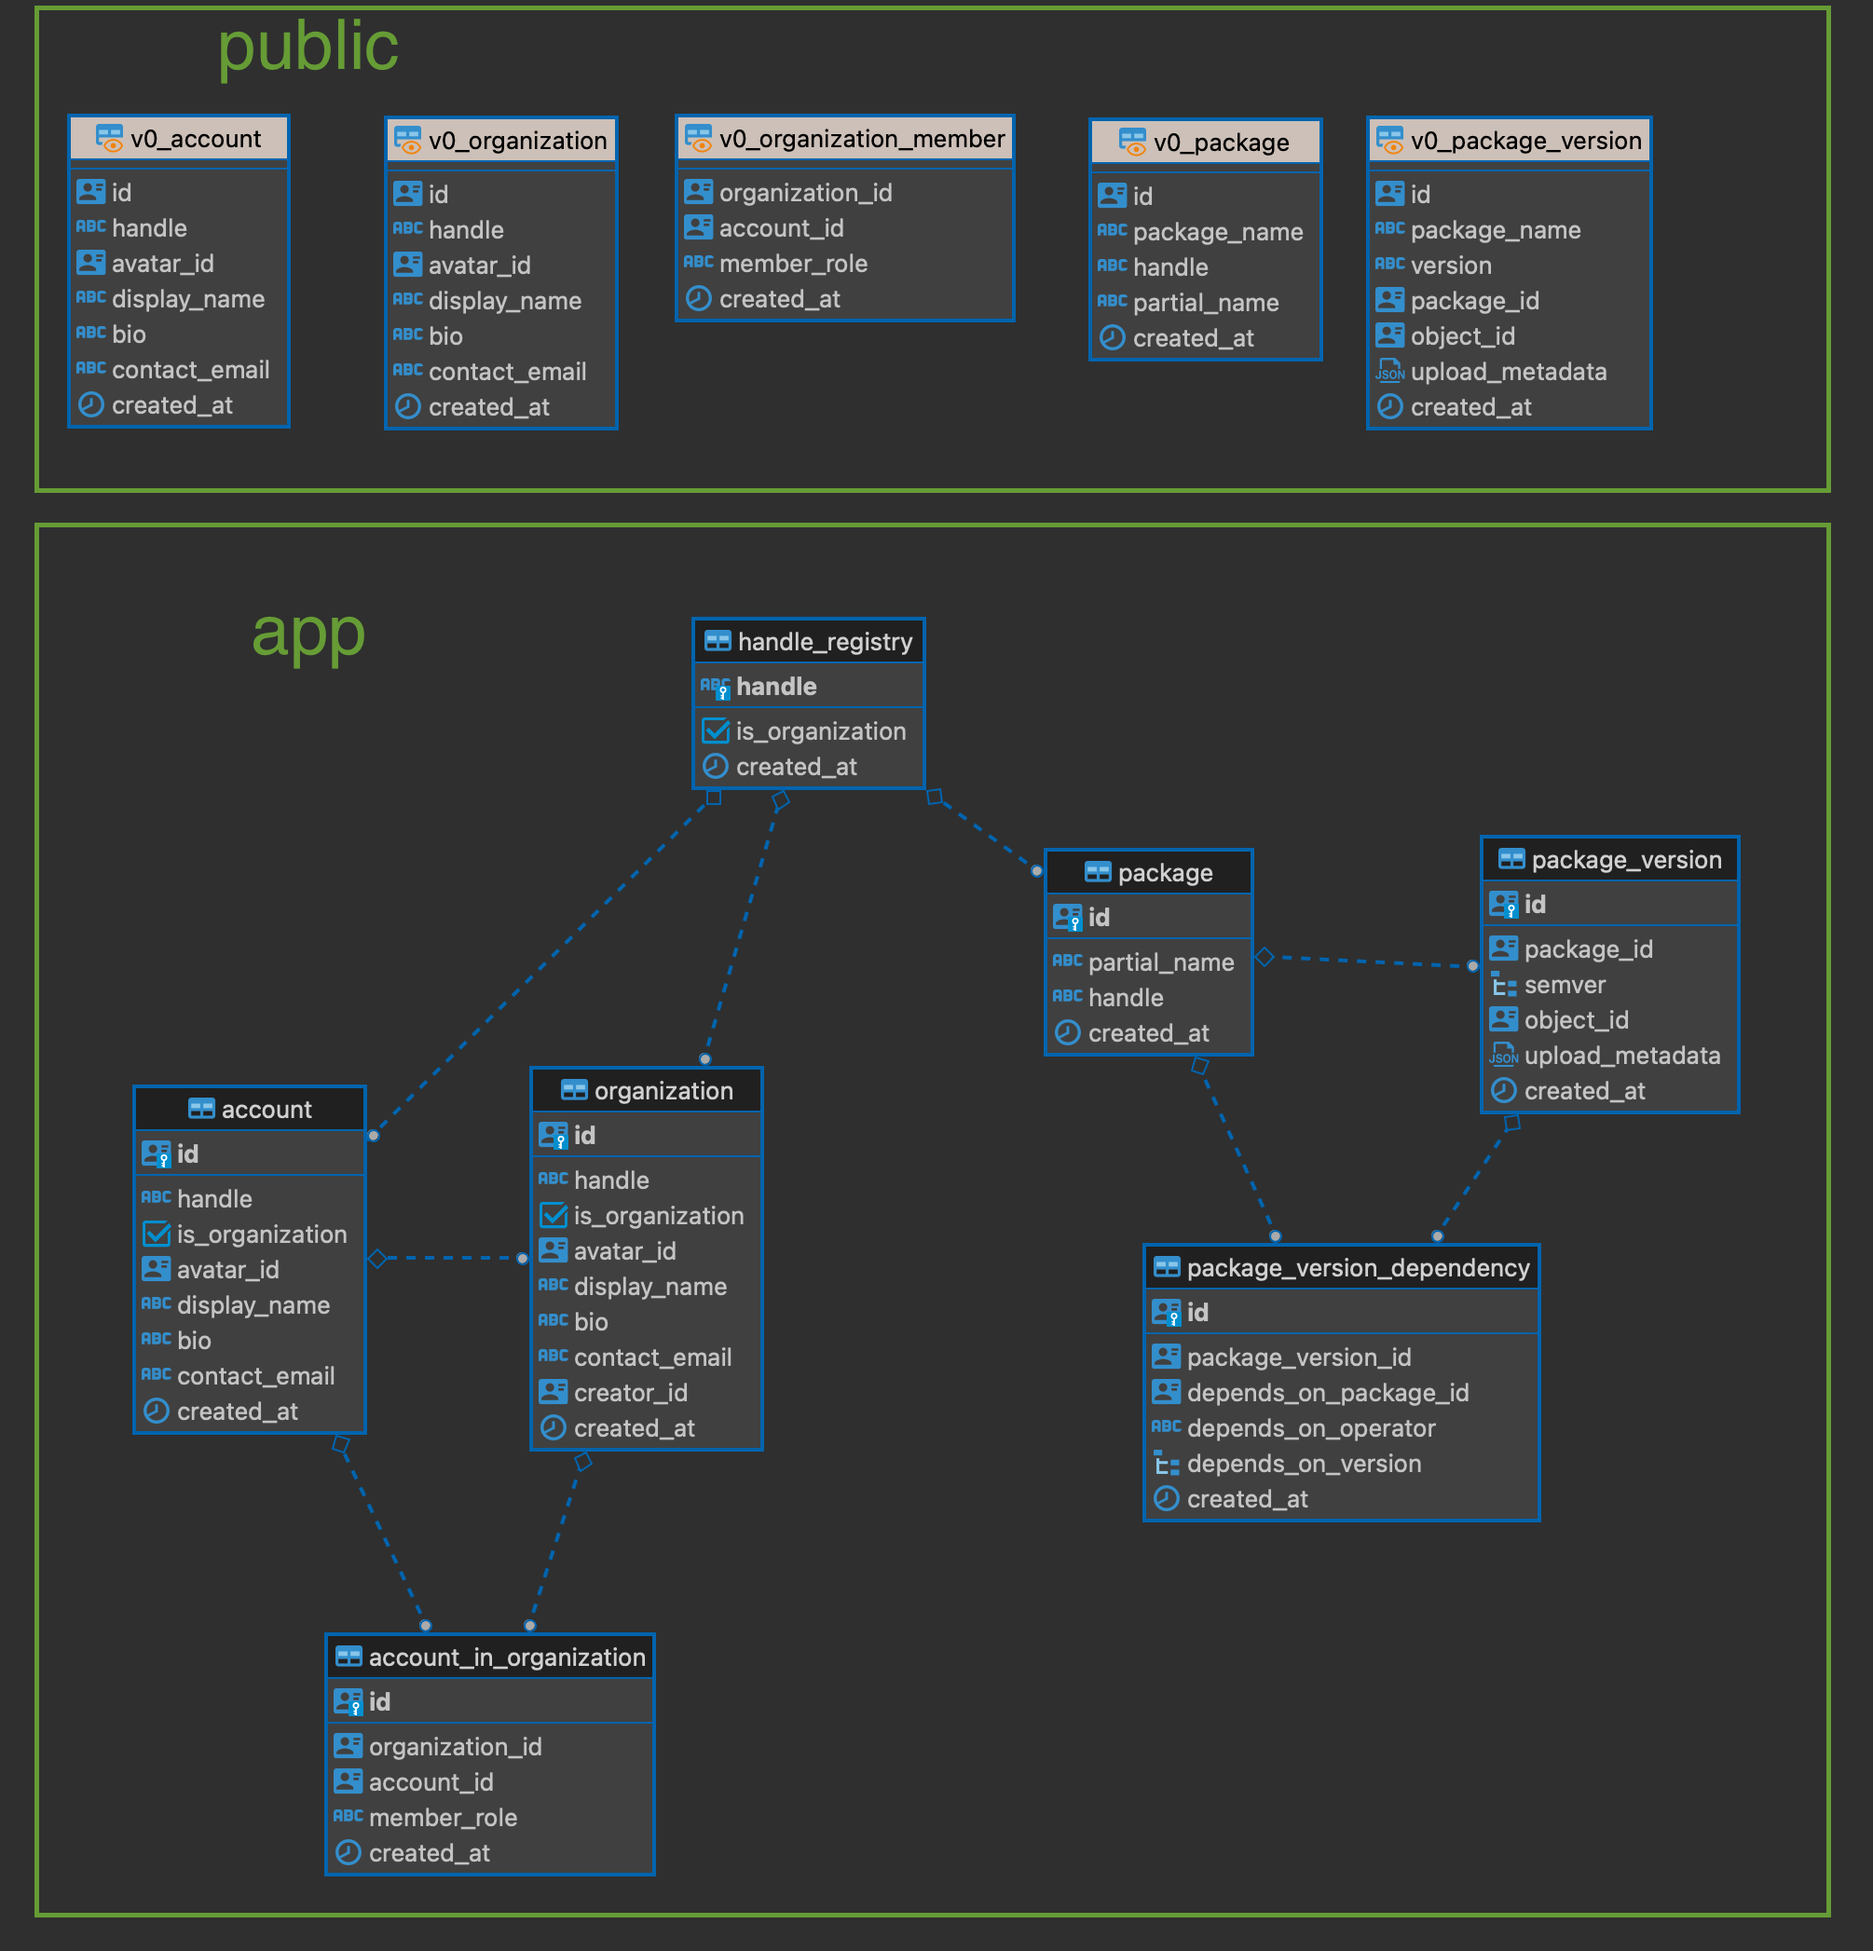
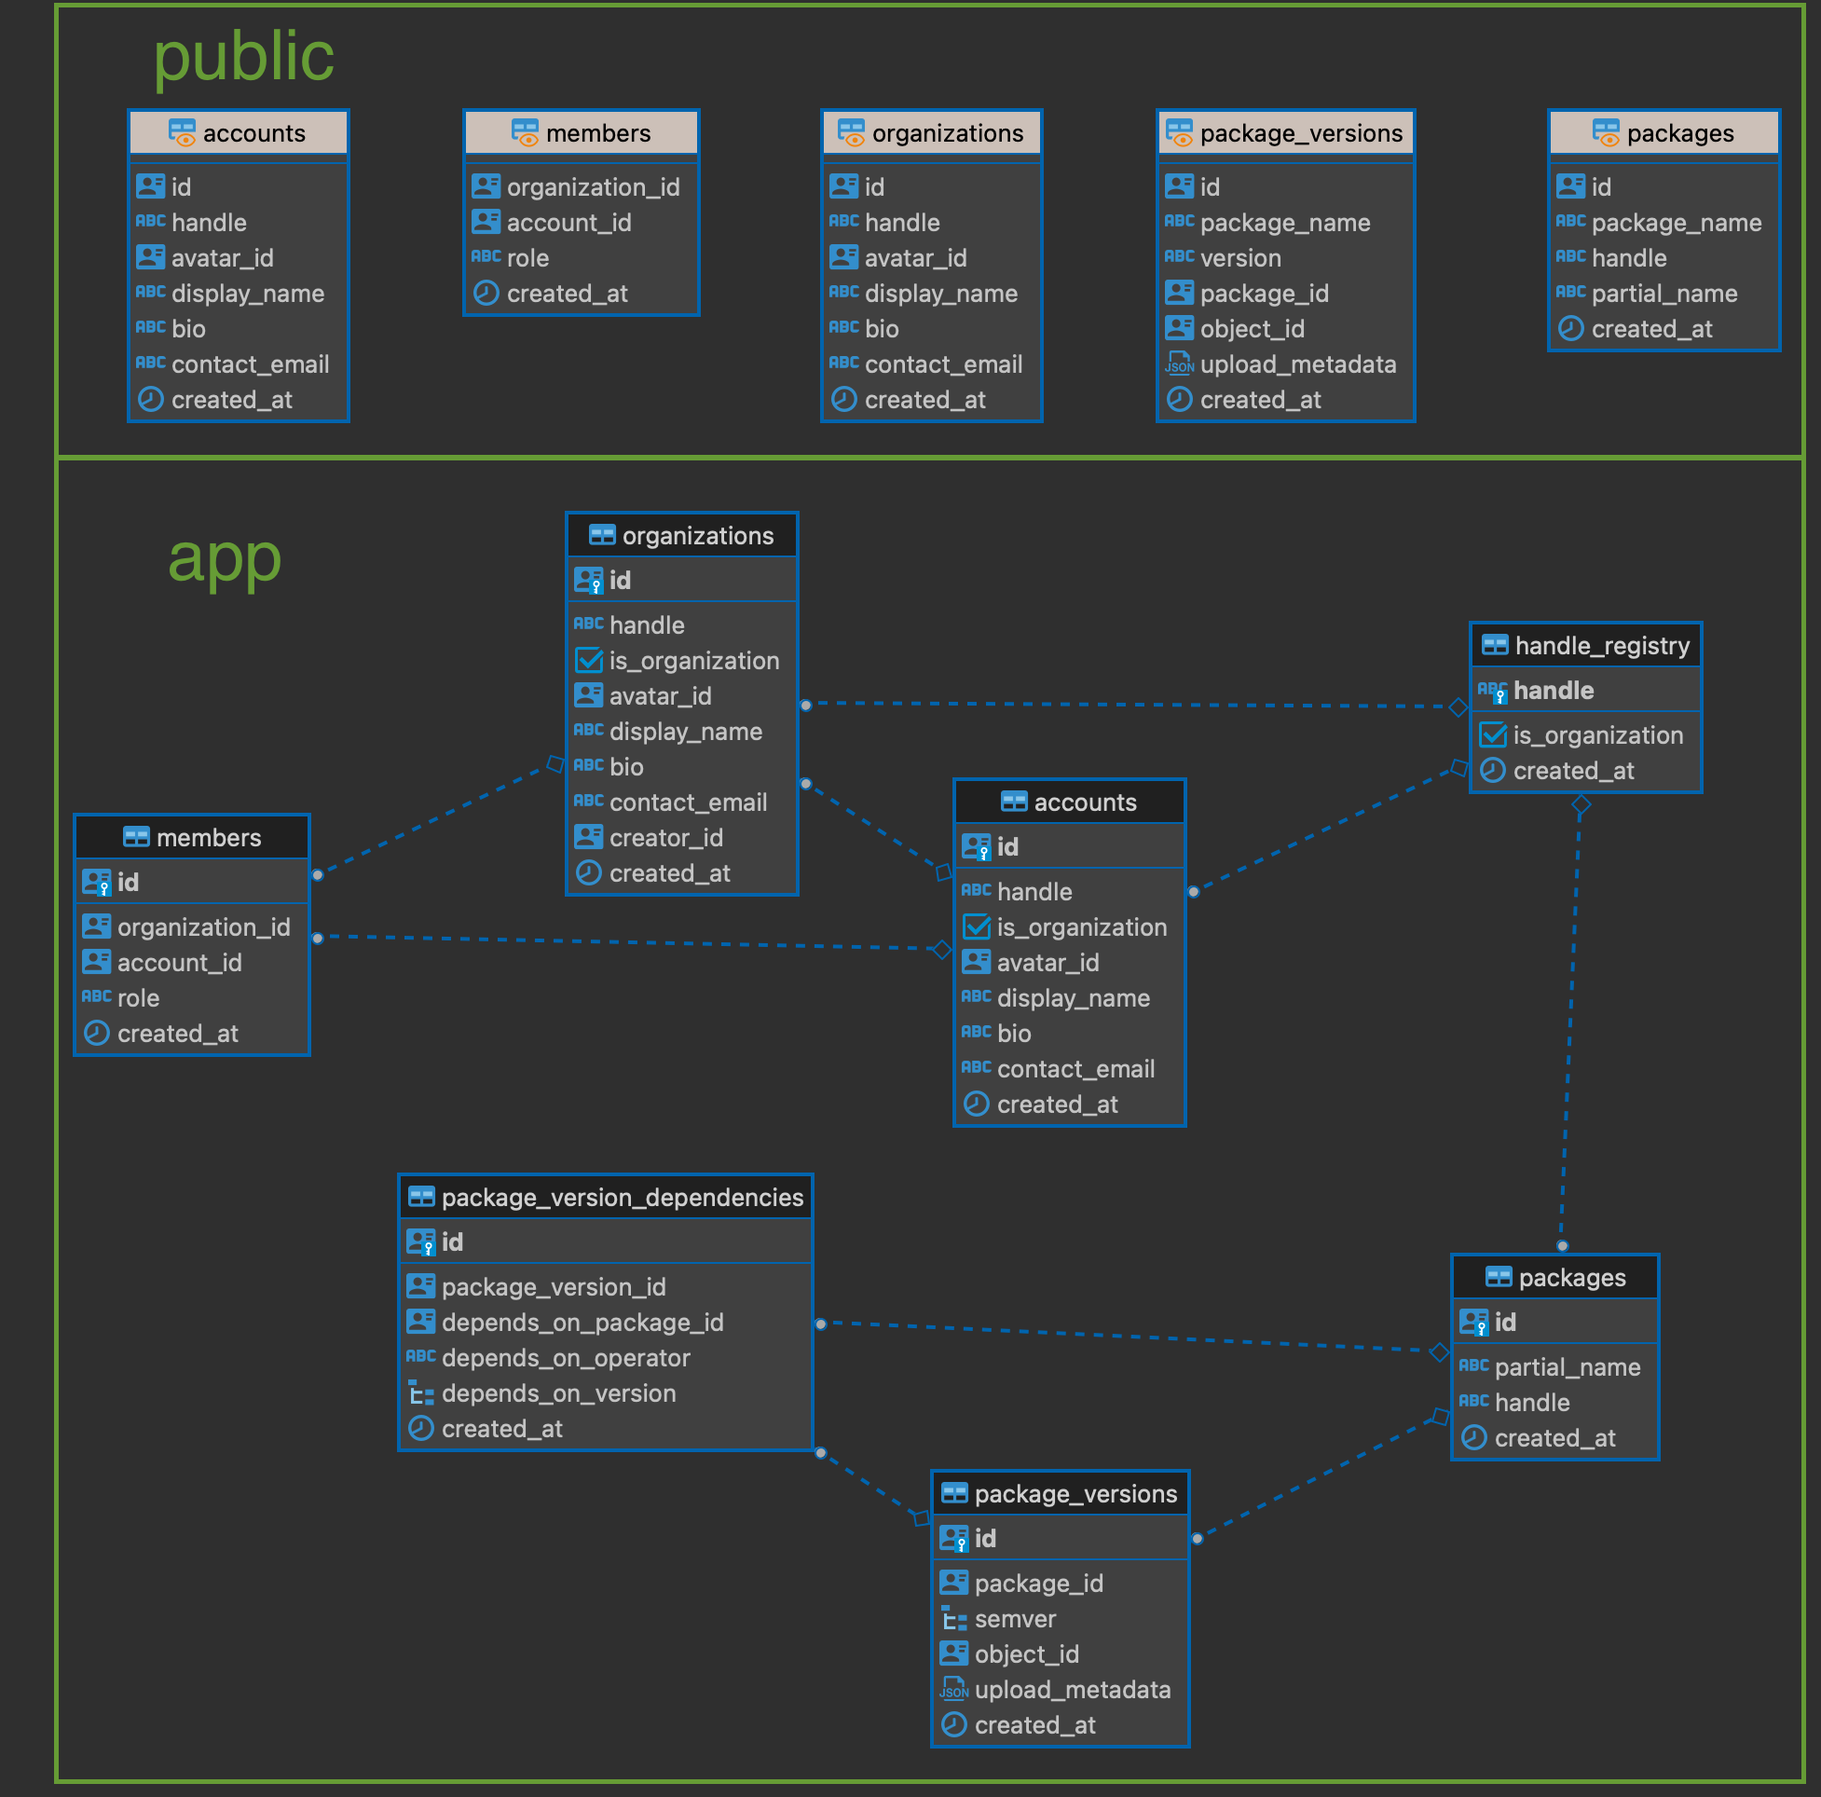
pluralize tables and remove v0 prefix from public api

diff --git a/README.md b/README.md
@@ -20,65 +20,4 @@ supabase start
 
 ### Usage: Version 0.0.1
 
-### Account Creation
-```sql
--- Create dummy gotrue account
-insert into auth.users(id, email)
-values (uuid_generate_v4(), 'baz@supabase.io');
-
-begin;
-    -- Login as an authenticated user
-    select app.simulate_login('bar@supabase.io');
-
-    -- Create an Account
-    select public.v0_create_account(
-        handle := 'bar',
-        display_name := 'Bar Barswel',
-        contact_email := 'bar@supabase.io'
-    );
-end;
-```
-
-### Organization Creation
-```sql
-begin;
-    select app.simulate_login('bar@supabase.io');
-
-    -- Create an Organization
-    select public.v0_create_organization(
-        handle := 'supabase',
-        display_name := 'Supabase',
-        bio := null::text,
-        contact_email := 'support@supabase.io',
-        avatar_id := null::uuid
-    );
-end;
-```
-
-### Package Publishing
-```sql
--- Dummy object, uploaded to storage API
-insert into storage.objects(bucket_id, name)
-values ('package_version', 'supabase/math__0.3.1.sql');
-
-begin
-    select app.simulate_login('bar@supabase.io');
-    
-    -- Publish a package
-    select public.v0_publish_package_version(
-        body := $${
-            "name": "supabase/math",
-            "version": "0.3.1"
-        }$$,
-        object_id := obj.id
-    )
-    from
-        storage.objects obj
-    where
-        bucket_id = 'package_version'
-        and name = 'supabase/math__0.3.1.sql';
-end;
-```
-
-### Organization Add/Remove Membmer
-TODO
+See [supabase/seed.sql](supabase/seed.sql) for usage
